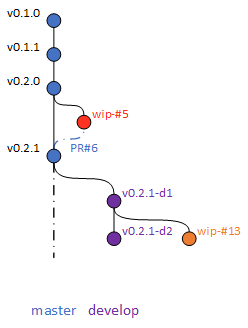
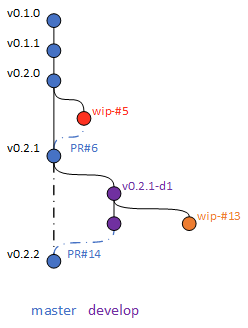
Pull request #14, raised to bring recent changes from 'develop' branch into the mainline - v0.2.2. Commit created to update diagrams

Changed region(s): [[0.0282, 0.5183, 0.9879, 0.8232], [0.0282, 0.122, 0.5363, 0.4268]]

diff --git a/README.md b/README.md
@@ -10,7 +10,7 @@ This library contains the support of a majority of devices/interaces which will 
 ![build tree](/_image/Build_tree.png)
 
 develop
-v0.2.1-d2
+v0.2.2
 * Fixed issue(s) [#7](https://github.com/mipidisaster/miLibrary/issues/7), [#10](https://github.com/mipidisaster/miLibrary/issues/10)
 
 v0.2.1-d1
